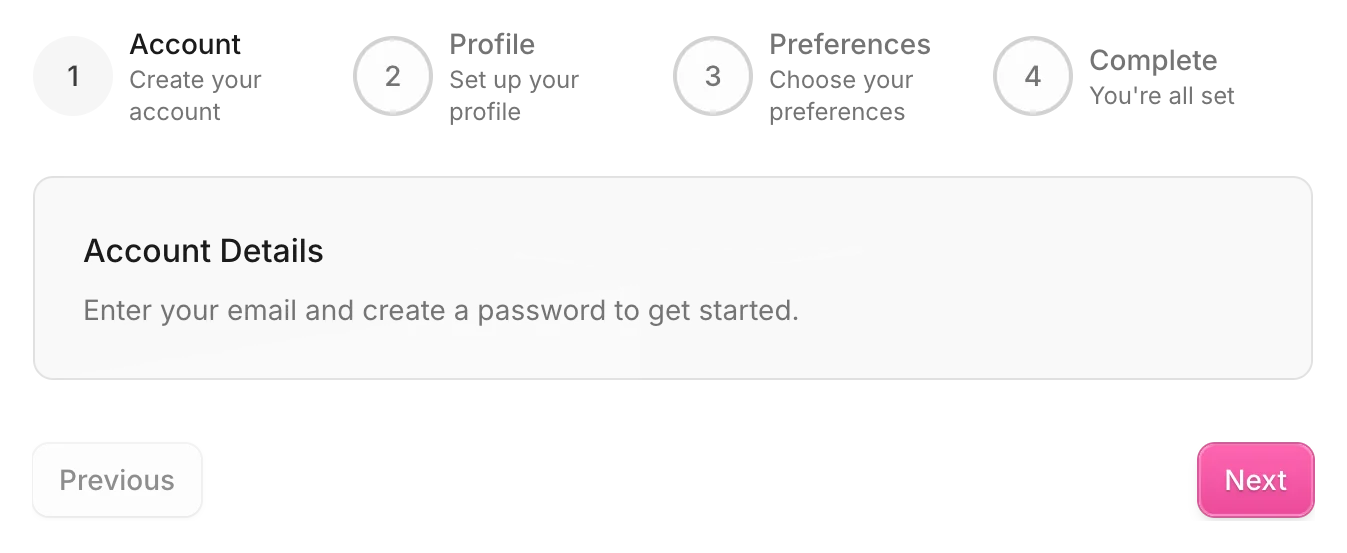
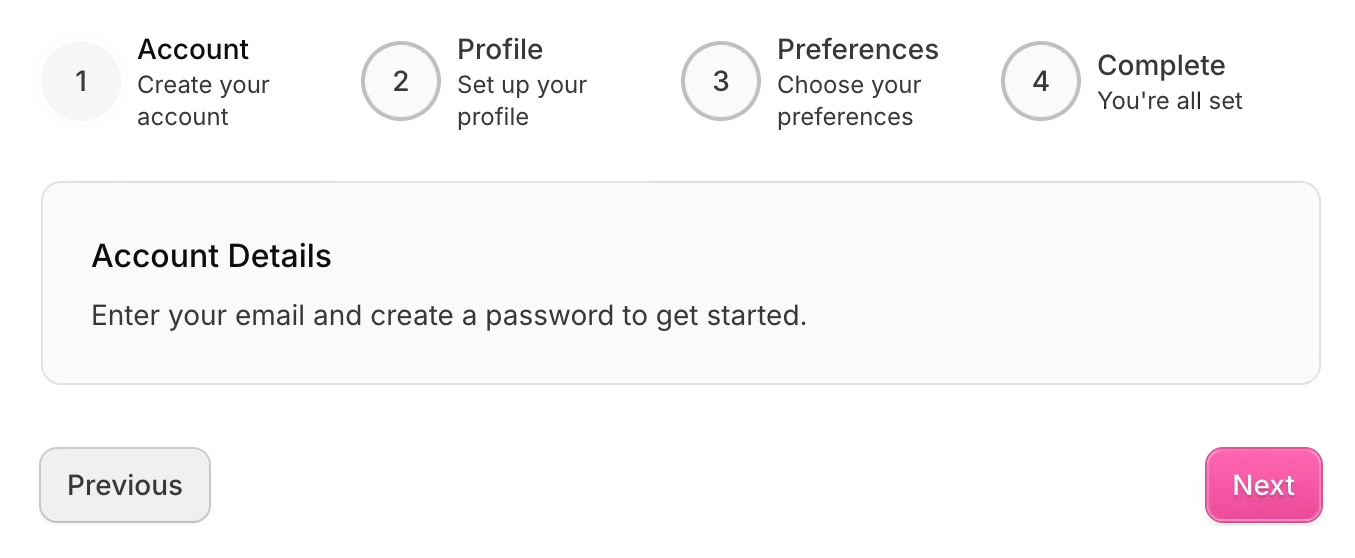
fix: resolve the MEDIUM/LOW findings from the interface review
- Fumadocs neutrals (--color-fd-*) read the SmoothUI roles, so docs and
  components share one neutral system in both modes.
- Drop the global .tracking-tight override (letter-spacing: 0) so the
  utility means what it says and docs previews match installs.
- Remove the unused Poppins font (6 weights, no consumer).
- Landing H2s share the SectionHeader scale (text-3xl md:text-4xl) and
  muted description colour; sentence case for headings and labels.
- Cap the docs page intro at 70ch, like the prose body.
- Replace transition-all in the docs chrome with state-transition or
  explicit properties; sponsor dots animate scaleX instead of width.
- Press scale is 0.97 everywhere.
- Remove "premium" from component and block descriptions.
- SmoothButton: the loading spinner overlays the label and animates
  opacity and scale instead of width, so the button keeps its width.
- Recapture the animated-stepper and dynamic-island posters.

Claude-Session: https://claude.ai/code/session_016ag5yVsHQA5raz5awpBqmY

diff --git a/apps/docs/components/landing/hero-stage.tsx b/apps/docs/components/landing/hero-stage.tsx
@@ -246,7 +246,7 @@ const ACTIVITY = [
     kind: "project" as ActivityKind,
     kpi: "visitors",
     meta: "sparkbites.dev · Production",
-    title: "Deployment Ready — main",
+    title: "Deployment ready — main",
   },
   {
     id: "a2",
@@ -627,7 +627,7 @@ export function HeroStage() {
                 >
                   <span
                     className={cn(
-                      "flex h-10 items-center gap-2 rounded-full px-4 text-sm ring-1 transition-[transform,background-color,color,box-shadow] duration-150 group-active:scale-[0.99] [&>svg]:size-4",
+                      "flex h-10 items-center gap-2 rounded-full px-4 text-sm ring-1 transition-[transform,background-color,color,box-shadow] duration-150 group-active:scale-[0.97] [&>svg]:size-4",
                       selected
                         ? "bg-card text-foreground shadow-md shadow-primary/10 ring-border-illustration"
                         : "bg-background/70 text-foreground/75 ring-foreground/15 group-hover:bg-foreground/5 group-hover:text-foreground group-hover:ring-foreground/25"
@@ -920,7 +920,7 @@ function DashboardView() {
                 aria-expanded={menuOpen}
                 aria-haspopup="menu"
                 aria-label="Account menu"
-                className="inline-flex size-8 items-center justify-center overflow-hidden rounded-full outline-none ring-1 ring-foreground/10 ring-offset-background transition-transform duration-150 hover:scale-[1.03] focus-visible:ring-2 focus-visible:ring-ring active:scale-[0.98]"
+                className="inline-flex size-8 items-center justify-center overflow-hidden rounded-full outline-none ring-1 ring-foreground/10 ring-offset-background transition-transform duration-150 hover:scale-[1.03] focus-visible:ring-2 focus-visible:ring-ring active:scale-[0.97]"
                 onClick={() => {
                   setMenuOpen((value) => !value);
                   playClick();

diff --git a/apps/docs/components/installer.tsx b/apps/docs/components/installer.tsx
@@ -169,7 +169,7 @@ export const Installer = ({ packageName, addToKit = true }: InstallerProps) => {
         <div className="flex items-center gap-1">
           <button
             className={cn(
-              "flex cursor-pointer items-center gap-1.5 rounded-md border px-3 py-1.5 font-medium text-sm transition-all",
+              "state-transition flex cursor-pointer items-center gap-1.5 rounded-md border px-3 py-1.5 font-medium text-sm",
               activeTab === "smoothui"
                 ? "border-border bg-background text-foreground shadow-sm"
                 : "border-transparent text-muted-foreground hover:text-foreground"
@@ -182,7 +182,7 @@ export const Installer = ({ packageName, addToKit = true }: InstallerProps) => {
           </button>
           <button
             className={cn(
-              "flex cursor-pointer items-center gap-1.5 rounded-md border px-3 py-1.5 font-medium text-sm transition-all",
+              "state-transition flex cursor-pointer items-center gap-1.5 rounded-md border px-3 py-1.5 font-medium text-sm",
               activeTab === "shadcn"
                 ? "border-border bg-background text-foreground shadow-sm"
                 : "border-transparent text-muted-foreground hover:text-foreground"
@@ -212,7 +212,7 @@ export const Installer = ({ packageName, addToKit = true }: InstallerProps) => {
               return (
                 <button
                   className={cn(
-                    "flex cursor-pointer items-center gap-1 rounded border px-2 py-1 font-medium text-xs transition-all",
+                    "state-transition flex cursor-pointer items-center gap-1 rounded border px-2 py-1 font-medium text-xs",
                     isActive
                       ? "border-border bg-background text-foreground shadow-sm"
                       : "border-transparent text-muted-foreground hover:text-foreground"

diff --git a/packages/smoothui/components/smooth-button/smooth-button.base.tsx b/packages/smoothui/components/smooth-button/smooth-button.base.tsx
@@ -227,16 +227,29 @@ function SmoothButton({
       type={props.type ?? "button"}
       {...props}
     >
+      {/* The spinner overlays the label instead of pushing it aside, so the
+          button keeps its width and only opacity and scale animate. */}
+      <span
+        className={cn(
+          "inline-flex items-center justify-center gap-[inherit] transition-opacity duration-150 ease-out motion-reduce:transition-none",
+          loading && "opacity-0"
+        )}
+      >
+        {prefix}
+        {children}
+        {suffix}
+      </span>
       <AnimatePresence initial={false}>
         {loading ? (
           <motion.span
-            animate={{ marginRight: "0.5rem", opacity: 1, width: "1em" }}
-            className="inline-flex shrink-0 items-center justify-center overflow-hidden"
-            exit={{ marginRight: 0, opacity: 0, width: 0 }}
+            animate={{ opacity: 1, scale: 1 }}
+            aria-hidden="true"
+            className="absolute inset-0 flex items-center justify-center"
+            exit={{ opacity: 0, scale: 0.95 }}
             initial={
               shouldReduceMotion
-                ? { marginRight: "0.5rem", opacity: 1, width: "1em" }
-                : { marginRight: 0, opacity: 0, width: 0 }
+                ? { opacity: 1, scale: 1 }
+                : { opacity: 0, scale: 0.95 }
             }
             key="spinner"
             transition={
@@ -249,9 +262,6 @@ function SmoothButton({
           </motion.span>
         ) : null}
       </AnimatePresence>
-      {prefix}
-      {children}
-      {suffix}
     </button>
   );
 }

diff --git a/packages/smoothui/components/smooth-button/smooth-button.radix.tsx b/packages/smoothui/components/smooth-button/smooth-button.radix.tsx
@@ -208,16 +208,29 @@ function SmoothButton({
       type={props.type ?? "button"}
       {...props}
     >
+      {/* The spinner overlays the label instead of pushing it aside, so the
+          button keeps its width and only opacity and scale animate. */}
+      <span
+        className={cn(
+          "inline-flex items-center justify-center gap-[inherit] transition-opacity duration-150 ease-out motion-reduce:transition-none",
+          loading && "opacity-0"
+        )}
+      >
+        {prefix}
+        {children}
+        {suffix}
+      </span>
       <AnimatePresence initial={false}>
         {loading ? (
           <motion.span
-            animate={{ marginRight: "0.5rem", opacity: 1, width: "1em" }}
-            className="inline-flex shrink-0 items-center justify-center overflow-hidden"
-            exit={{ marginRight: 0, opacity: 0, width: 0 }}
+            animate={{ opacity: 1, scale: 1 }}
+            aria-hidden="true"
+            className="absolute inset-0 flex items-center justify-center"
+            exit={{ opacity: 0, scale: 0.95 }}
             initial={
               shouldReduceMotion
-                ? { marginRight: "0.5rem", opacity: 1, width: "1em" }
-                : { marginRight: 0, opacity: 0, width: 0 }
+                ? { opacity: 1, scale: 1 }
+                : { opacity: 0, scale: 0.95 }
             }
             key="spinner"
             transition={
@@ -230,9 +243,6 @@ function SmoothButton({
           </motion.span>
         ) : null}
       </AnimatePresence>
-      {prefix}
-      {children}
-      {suffix}
     </button>
   );
 }

diff --git a/apps/docs/components/themes/theme-studio.tsx b/apps/docs/components/themes/theme-studio.tsx
@@ -320,7 +320,7 @@ function StudioSidebar({
           <button
             aria-pressed={mode === entry}
             className={cn(
-              "flex h-7 flex-1 cursor-pointer items-center justify-center gap-1.5 rounded-md font-medium text-[13px] capitalize transition-all",
+              "state-transition flex h-7 flex-1 cursor-pointer items-center justify-center gap-1.5 rounded-md font-medium text-[13px] capitalize",
               mode === entry
                 ? "bg-foreground/10 text-foreground"
                 : "text-muted-foreground"
@@ -344,7 +344,7 @@ function StudioSidebar({
           <button
             aria-pressed={font === option.id}
             className={cn(
-              "flex h-7 flex-1 cursor-pointer items-center justify-center rounded-md font-medium text-[13px] transition-all",
+              "state-transition flex h-7 flex-1 cursor-pointer items-center justify-center rounded-md font-medium text-[13px]",
               font === option.id
                 ? "bg-foreground/10 text-foreground"
                 : "text-muted-foreground"
@@ -364,7 +364,7 @@ function StudioSidebar({
           <button
             aria-pressed={tint === option.id}
             className={cn(
-              "flex h-7 flex-1 cursor-pointer items-center justify-center rounded-md font-medium text-[13px] transition-all",
+              "state-transition flex h-7 flex-1 cursor-pointer items-center justify-center rounded-md font-medium text-[13px]",
               tint === option.id
                 ? "bg-foreground/10 text-foreground"
                 : "text-muted-foreground"

diff --git a/apps/docs/app/global.css b/apps/docs/app/global.css
@@ -47,6 +47,25 @@
   --lines-page: url("/lines-b.png");
   --color-fd-primary: var(--color-brand-ink);
   --color-fd-secondary: var(--color-smooth-50);
+  /* Fumadocs chrome reads the SmoothUI roles, so docs and components share one
+     neutral system. The roles flip per mode, so no .dark copy is needed. */
+  --color-fd-background: var(--color-background);
+  --color-fd-foreground: var(--color-foreground);
+  --color-fd-muted: var(--color-muted);
+  --color-fd-muted-foreground: var(--color-muted-foreground);
+  --color-fd-popover: var(--color-popover);
+  --color-fd-popover-foreground: var(--color-popover-foreground);
+  --color-fd-card-foreground: var(--color-card-foreground);
+  --color-fd-border: var(--color-border);
+  --color-fd-ring: var(--color-ring);
+  --color-fd-primary-foreground: var(--color-on-brand);
+  --color-fd-secondary-foreground: var(--color-secondary-foreground);
+  --color-fd-accent: color-mix(
+    in oklch,
+    var(--color-foreground) 8%,
+    transparent
+  );
+  --color-fd-accent-foreground: var(--color-foreground);
   /* Motion spine — match .cursor/rules/animations.mdc. Exit ~75% of enter;
      always honor prefers-reduced-motion. See .ui-craft/tokens.md. */
   --duration-fast: 0.15s;
@@ -76,10 +95,6 @@
 }
 
 /* Site chrome. */
-.tracking-tight {
-  letter-spacing: 0;
-}
-
 h1 .text-muted-foreground {
   color: var(--color-foreground);
 }

diff --git a/apps/docs/components/landing/sponsors.tsx b/apps/docs/components/landing/sponsors.tsx
@@ -17,13 +17,13 @@ export function Sponsors() {
             <div className="mb-6 inline-flex items-center gap-2 rounded-full border bg-linear-to-br from-background via-background to-brand/10 px-4 py-2">
               <IconHeartFill24 className="h-4 w-4 fill-red-500 text-red-500" />
               <span className="font-medium text-foreground text-sm">
-                Thank You to Our Sponsors
+                Thank you to our sponsors
               </span>
             </div>
-            <h2 className="text-balance text-center font-semibold font-title text-3xl text-foreground transition">
-              Our Amazing Sponsors
+            <h2 className="text-balance text-center font-semibold font-title text-3xl text-foreground md:text-4xl">
+              Our sponsors
             </h2>
-            <p className="mx-auto mt-4 max-w-2xl text-foreground/70 text-lg">
+            <p className="mx-auto mt-4 max-w-2xl text-balance text-muted-foreground">
               We&apos;re incredibly grateful to our sponsors who help make
               SmoothUI possible.
             </p>

diff --git a/packages/smoothui/components/unlock-face-id/index.tsx b/packages/smoothui/components/unlock-face-id/index.tsx
@@ -308,7 +308,7 @@ const UnlockFaceId = ({
         aria-busy={isBusy}
         aria-describedby={statusMessageId}
         aria-label={label}
-        className="relative flex shrink-0 cursor-pointer items-center justify-center rounded-3xl text-foreground outline-none transition-transform duration-150 ease-out focus-visible:ring-2 focus-visible:ring-ring focus-visible:ring-offset-4 focus-visible:ring-offset-background active:scale-95 disabled:cursor-default disabled:active:scale-100 motion-reduce:transition-none motion-reduce:active:scale-100"
+        className="relative flex shrink-0 cursor-pointer items-center justify-center rounded-3xl text-foreground outline-none transition-transform duration-150 ease-out focus-visible:ring-2 focus-visible:ring-ring focus-visible:ring-offset-4 focus-visible:ring-offset-background active:scale-[0.97] disabled:cursor-default disabled:active:scale-100 motion-reduce:transition-none motion-reduce:active:scale-100"
         disabled={isBusy || isUnlocked}
         onClick={handleTriggerClick}
         style={{ height: size, width: size }}

diff --git a/packages/smoothui/components/dock/index.tsx b/packages/smoothui/components/dock/index.tsx
@@ -265,7 +265,7 @@ const DockIcon = ({
   const sharedProps = {
     "aria-label": item.active ? `${item.label} (running)` : item.label,
     className:
-      "flex size-full items-center justify-center rounded-[26%] bg-foreground/[0.07] text-foreground outline-none ring-1 ring-foreground/10 ring-inset transition-transform duration-150 ease-out focus-visible:ring-2 focus-visible:ring-brand active:scale-[0.94] motion-reduce:transition-none motion-reduce:active:scale-100",
+      "flex size-full items-center justify-center rounded-[26%] bg-foreground/[0.07] text-foreground outline-none ring-1 ring-foreground/10 ring-inset transition-transform duration-150 ease-out focus-visible:ring-2 focus-visible:ring-brand active:scale-[0.97] motion-reduce:transition-none motion-reduce:active:scale-100",
     onClick: handleSelect,
     onFocus: onFocusItem,
     onKeyDown,

diff --git a/packages/smoothui/components/theme-toggle/index.tsx b/packages/smoothui/components/theme-toggle/index.tsx
@@ -592,7 +592,7 @@ const CycleButton = ({
     aria-label={ariaLabel}
     aria-pressed={ariaPressed}
     className={cn(
-      "inline-flex cursor-pointer items-center justify-center rounded-full transition-transform duration-150 ease-out focus-visible:outline-none focus-visible:ring-2 focus-visible:ring-ring focus-visible:ring-offset-4 focus-visible:ring-offset-background active:scale-95 motion-reduce:transition-none motion-reduce:active:scale-100",
+      "inline-flex cursor-pointer items-center justify-center rounded-full transition-transform duration-150 ease-out focus-visible:outline-none focus-visible:ring-2 focus-visible:ring-ring focus-visible:ring-offset-4 focus-visible:ring-offset-background active:scale-[0.97] motion-reduce:transition-none motion-reduce:active:scale-100",
       className
     )}
     onClick={onSelect}

diff --git a/apps/docs/app/docs/[...slug]/page.tsx b/apps/docs/app/docs/[...slug]/page.tsx
@@ -267,7 +267,7 @@ export default async function Page(props: PageProps<"/docs/[...slug]">) {
     <>
       <DocsTitle>{brandify(page.data.title)}</DocsTitle>
       {isSplit ? null : (
-        <DocsDescription className="mb-2 text-foreground/70 text-md">
+        <DocsDescription className="mb-2 max-w-[70ch] text-pretty text-foreground/70 text-md">
           {brandify(page.data.description)}
         </DocsDescription>
       )}
@@ -276,7 +276,7 @@ export default async function Page(props: PageProps<"/docs/[...slug]">) {
 
   const introCopy =
     isSplit && page.data.description ? (
-      <p className="mb-[9vh] text-foreground/70 text-md leading-relaxed">
+      <p className="mb-[9vh] max-w-[70ch] text-pretty text-foreground/70 text-md leading-relaxed">
         {brandify(page.data.description)}
       </p>
     ) : null;

diff --git a/packages/smoothui/components/interactive-image-selector/index.tsx b/packages/smoothui/components/interactive-image-selector/index.tsx
@@ -151,7 +151,7 @@ export default function InteractiveImageSelector({
           onClick={handleReset}
           transition={shouldReduceMotion ? { duration: 0 } : { duration: 0.25 }}
           whileHover={shouldReduceMotion ? {} : { scale: 1.05 }}
-          whileTap={shouldReduceMotion ? {} : { scale: 0.95 }}
+          whileTap={shouldReduceMotion ? {} : { scale: 0.97 }}
         >
           {isResetting ? "Resetting..." : "Reset"}
         </motion.button>
@@ -186,7 +186,7 @@ export default function InteractiveImageSelector({
           transition={{ duration: 0.3 }}
           type="button"
           whileHover={{ scale: 1.05 }}
-          whileTap={{ scale: 0.95 }}
+          whileTap={{ scale: 0.97 }}
         >
           {isSelecting ? "Cancel" : "Select"}
         </motion.button>
